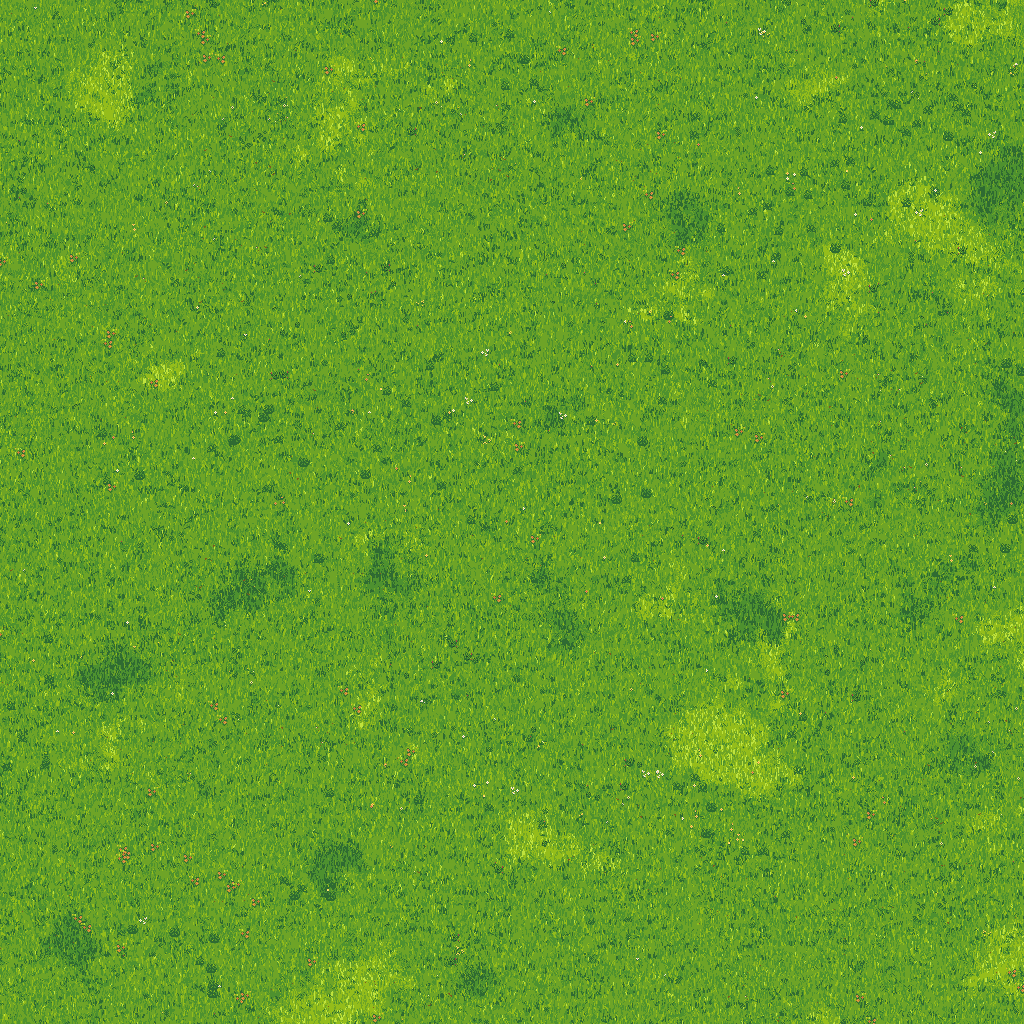
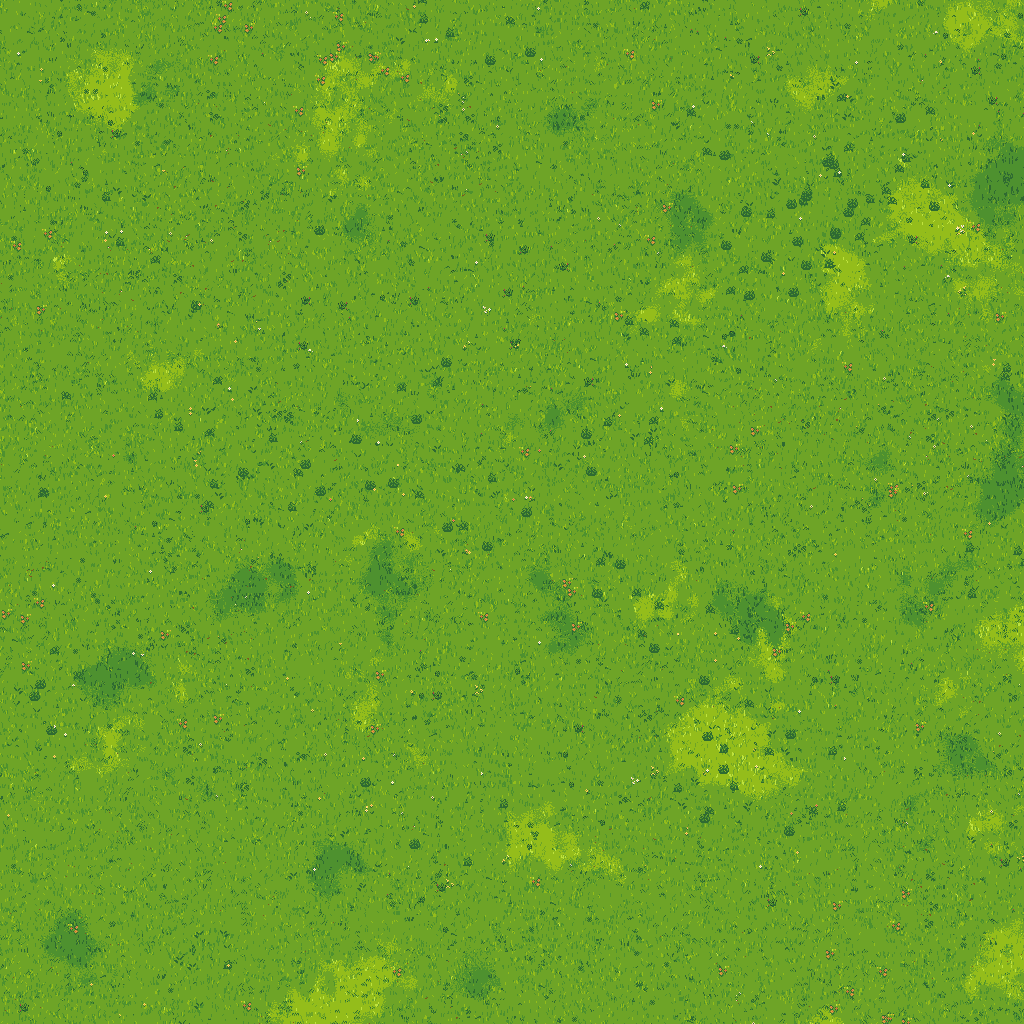
lanskap: tekstur rumput lebih halus & jarang agar taburan detail terlihat
Claude-Session: https://claude.ai/code/session_01Bh7MyzyAsPj6aNVrh74d4r

diff --git a/tools/lanskap/bake_luas.py b/tools/lanskap/bake_luas.py
@@ -83,7 +83,7 @@ def tufts(n_per_px):
     for b in range(7):
         use=rng.random(n)<(1.0 if b<4 else 0.5)
         off=rng.integers(-3,4,n)                       # posisi helai di sekitar pangkal
-        L=rng.integers(2,6,n)
+        L=rng.integers(2,5,n)
         lean=np.sign(off)*(rng.random(n)<0.6)          # helai pinggir condong keluar
         front=(np.abs(off)<=1)&(rng.random(n)<0.55)
         ti=np.clip(base_t+np.where(front,1,-1),1,len(LADDER)-1)
@@ -93,9 +93,10 @@ def tufts(n_per_px):
             m=use&(L>k)
             yk=yb[m]-k; xk=cx[m]+off[m]+np.where(k>=L[m]-2,lean[m],0)
             img[yk,np.clip(xk,0,W-1)]=col[m]
-blades_texture(1/14,True)      # sela gelap tipis di antara rumpun
-tufts(1/34)                    # rumpun-rumpun helai
-blades_texture(1/40,False)     # kilau terang sesekali
+# tekstur halus: cukup terasa sebagai rumput, tapi tidak menenggelamkan taburan detail
+blades_texture(1/60,True)      # sela gelap tipis, jarang
+tufts(1/150)                   # rumpun kecil sesekali
+blades_texture(1/170,False)    # kilau terang sesekali
 
 def stamp(s,x,y):
     h,w=s.shape[:2]
